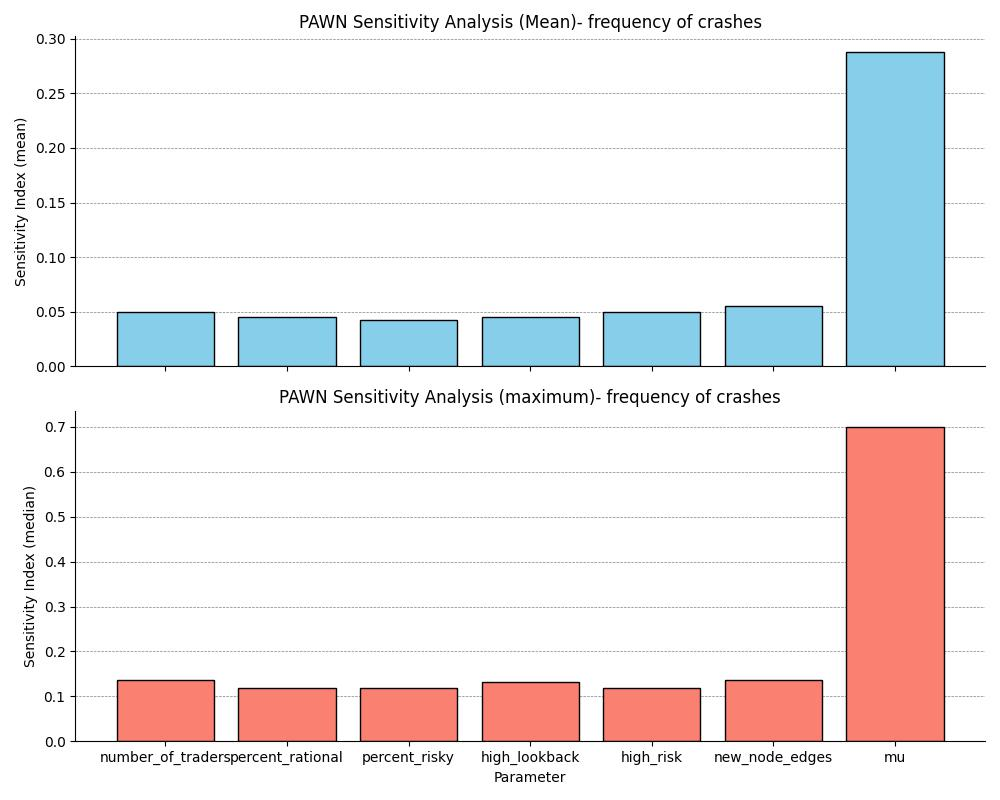
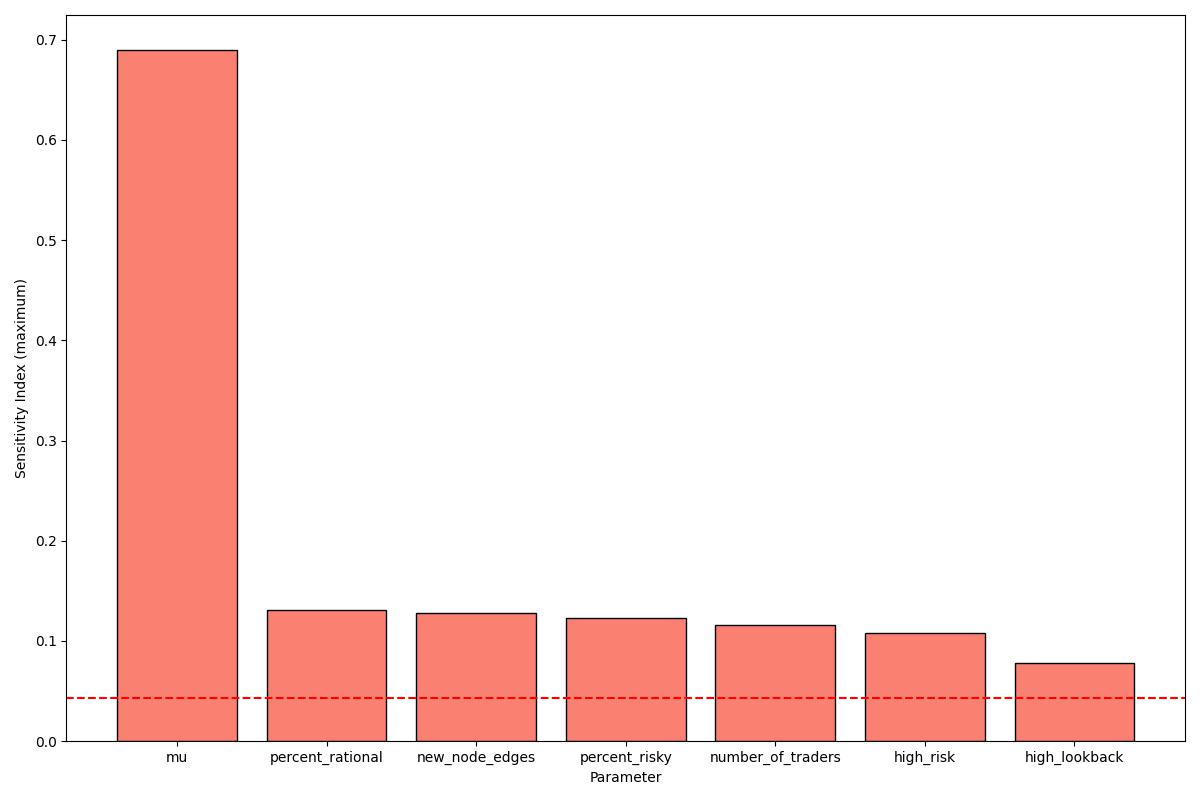
added plots for fixing parameter

diff --git a/PAWN_VolClust.py b/PAWN_VolClust.py
@@ -81,29 +81,47 @@ if __name__ == '__main__':
     k = 15  # Number of bins
     S = pawn.analyze(problem, param_values, Y, k)
 
+    # Extract PAWN sensitivity indices
+    pawn_Si_mean = S['mean']
+    pawn_Si_max = S['maximum']
+
+    # Compute the critical value for the KS test
+    alpha = 0.05  # significance level
+    num_samples = len(param_values)
+    critical_value = 1.36 / np.sqrt(num_samples)
+
+    # Verify KS Statistics
+    significant = {}
+    for name, si_max in zip(problem['names'], pawn_Si_max):
+        significant[name] = si_max > critical_value
+
+    # Rank Factors
+    factors = problem['names']
+    # Sort factors by mean sensitivity indices
+    #sorted_mean_ranking = sorted(zip(factors, pawn_Si_mean), key=lambda x: x[1], reverse=True)
+    sorted_max_ranking = sorted(zip(factors, pawn_Si_max), key=lambda x: x[1], reverse=True)
+
+    # Unzip the sorted rankings
+    #sorted_factors_mean, sorted_pawn_Si_mean = zip(*sorted_mean_ranking)
+    sorted_factors_max, sorted_pawn_Si_max = zip(*sorted_max_ranking)
+
     # Plot results
-    fig, axes = plt.subplots(nrows=2, ncols=1, figsize=(12, 10), sharex=True)
+    
 
-    # Plot mean sensitivity indices
-    axes[0].bar(problem['names'], S['mean'], align='center', color='skyblue', edgecolor='black')
-    axes[0].set_ylabel('Sensitivity Index (mean)')
-    axes[0].set_title('PAWN Sensitivity Analysis (Mean)')
-
-    # Plot median sensitivity indices
-    axes[1].bar(problem['names'], S['maximum'], align='center', color='salmon', edgecolor='black')
-    axes[1].set_xlabel('Parameter')
-    axes[1].set_ylabel('Sensitivity Index (maximum)')
-    axes[1].set_title('PAWN Sensitivity Analysis (maximum)')
-
-    # Enhance the overall aesthetics
-    for ax in axes:
-        ax.grid(True)
-        ax.set_axisbelow(True)
-        ax.spines['top'].set_visible(False)
-        ax.spines['right'].set_visible(False)
-        ax.yaxis.grid(True, color='gray', linestyle='--', linewidth=0.5)
-        ax.xaxis.grid(False)
-
+    # Plot maximum sensitivity indices
+    plt.figure(figsize=(12, 8))
+    plt.bar(sorted_factors_max, sorted_pawn_Si_max, align='center', color='salmon', edgecolor='black')
+    plt.axhline(critical_value, color='red', linestyle='--')
+    plt.xlabel('Parameter')
+    plt.ylabel('Sensitivity Index (maximum)')
     plt.tight_layout()
-    plt.savefig('pawn_SA_Vol.png')
+    plt.savefig('pawn_SA_vol_clustering.png')
     plt.show()
+    
+    #plt.figure(figsize=(12, 8))
+    #plt.scatter( , pawn_Si_max, color='skyblue', edgecolor='black')
+
+    # Display significance
+    print("Significance Results:")
+    for name in factors:
+        print(f"{name}: {'Significant' if significant[name] else 'Not Significant'}")

diff --git a/Fixing.py b/Fixing.py
@@ -4,17 +4,15 @@ from SALib.analyze import pawn
 import matplotlib.pyplot as plt
 import multiprocessing as mp
 from tqdm import tqdm
-from Experiment import Experiment
+from scipy.stats import kstwobign
+from Experiment import *
 
-# Purpose: to understand the impact of different parameters on the frequency of crashes
-# perform the sensitivity analysis based on the number of crashes in one run per parameter set
-
-
+# Define the model function
 def model(params_chunk):
     results = []
     for params in params_chunk:
         number_of_traders = int(params[0])
-        if number_of_traders % 2 != 0:
+        if (number_of_traders % 2) != 0:
             number_of_traders += 1  # Increment to make even if odd
 
         exp = Experiment(
@@ -38,12 +36,12 @@ def model(params_chunk):
             alpha_O=2.1,
             alpha_p=0
         )
-
-        # Run the experiment once and count crashes
-        crash_count, _ = exp.multiple_runs_crash(1)
-        results.append(crash_count)
+        market = exp.run_simulation()
+        y2 = exp.fat_tail_experiment(500, market.prices)
+        results.append(y2)
     return results
 
+# Define the problem for sensitivity analysis
 problem = {
     'num_vars': 7,
     'names': [
@@ -62,19 +60,16 @@ problem = {
     ]
 }
 
-# Generate samples
+# Generate Latin Hypercube samples
 N = 1000
 param_values = latin.sample(problem, N)
 
 # Parallel model evaluation with progress tracking
-
-
-def parallel_model_evaluation(param_values, num_workers=4):
+def parallel_model_evaluation(param_values, num_workers=8):
     chunks = np.array_split(param_values, num_workers)
     with mp.Pool(num_workers) as pool:
         results = list(tqdm(pool.imap(model, chunks), total=num_workers))
     return np.concatenate(results)
-
 
 if __name__ == '__main__':
     # Number of workers for parallel processing
@@ -87,7 +82,7 @@ if __name__ == '__main__':
     k = 15  # Number of bins
     S = pawn.analyze(problem, param_values, Y, k)
 
-    # # Extract PAWN sensitivity indices
+    # Extract PAWN sensitivity indices
     pawn_Si_mean = S['mean']
     pawn_Si_max = S['maximum']
 
@@ -121,7 +116,7 @@ if __name__ == '__main__':
     plt.xlabel('Parameter')
     plt.ylabel('Sensitivity Index (maximum)')
     plt.tight_layout()
-    plt.savefig('pawn_SA_crashes.jpeg')
+    plt.savefig('pawn_SA_K_extended.png')
     plt.show()
     
     #plt.figure(figsize=(12, 8))

diff --git a/Experiment.py b/Experiment.py
@@ -85,7 +85,7 @@ class Experiment():
         
         return ljung_box_result
 
-    def analyze_volatility_clustering(self, prices):
+    def analyze_volatility_clustering(self, prices, plot=False):
 
         # Calculate log returns
         prices = np.exp(np.array(prices))
@@ -94,6 +94,13 @@ class Experiment():
         returns = prices[1:] - prices[:-1]
         # ARCH Test For Volatility Clustering
         arch_test = sm.stats.diagnostic.het_arch(returns.flatten())
+        if plot:
+            plt.figure()
+            plt.plot(returns**2)
+            plt.title('Autocorrelation of Returns')
+            plt.xlabel('Lags')
+            plt.ylabel('Autocorrelation')
+            st.pyplot(plt.gcf())
         if arch_test[1] < 0.05:
             return 1, arch_test[1]
         else:

diff --git a/streamlit_app.py b/streamlit_app.py
@@ -70,7 +70,7 @@ if st.sidebar.button('Run Simulation'):
 
     # Volatility Clustering Analysis
     st.subheader('Volatility Clustering Analysis')
-    experiment.analyze_volatility_clustering(prices)
+    experiment.analyze_volatility_clustering(prices, True)
 
     # Autocorrelation of Returns Analysis
     st.subheader('Autocorrelation of Returns Analysis')
